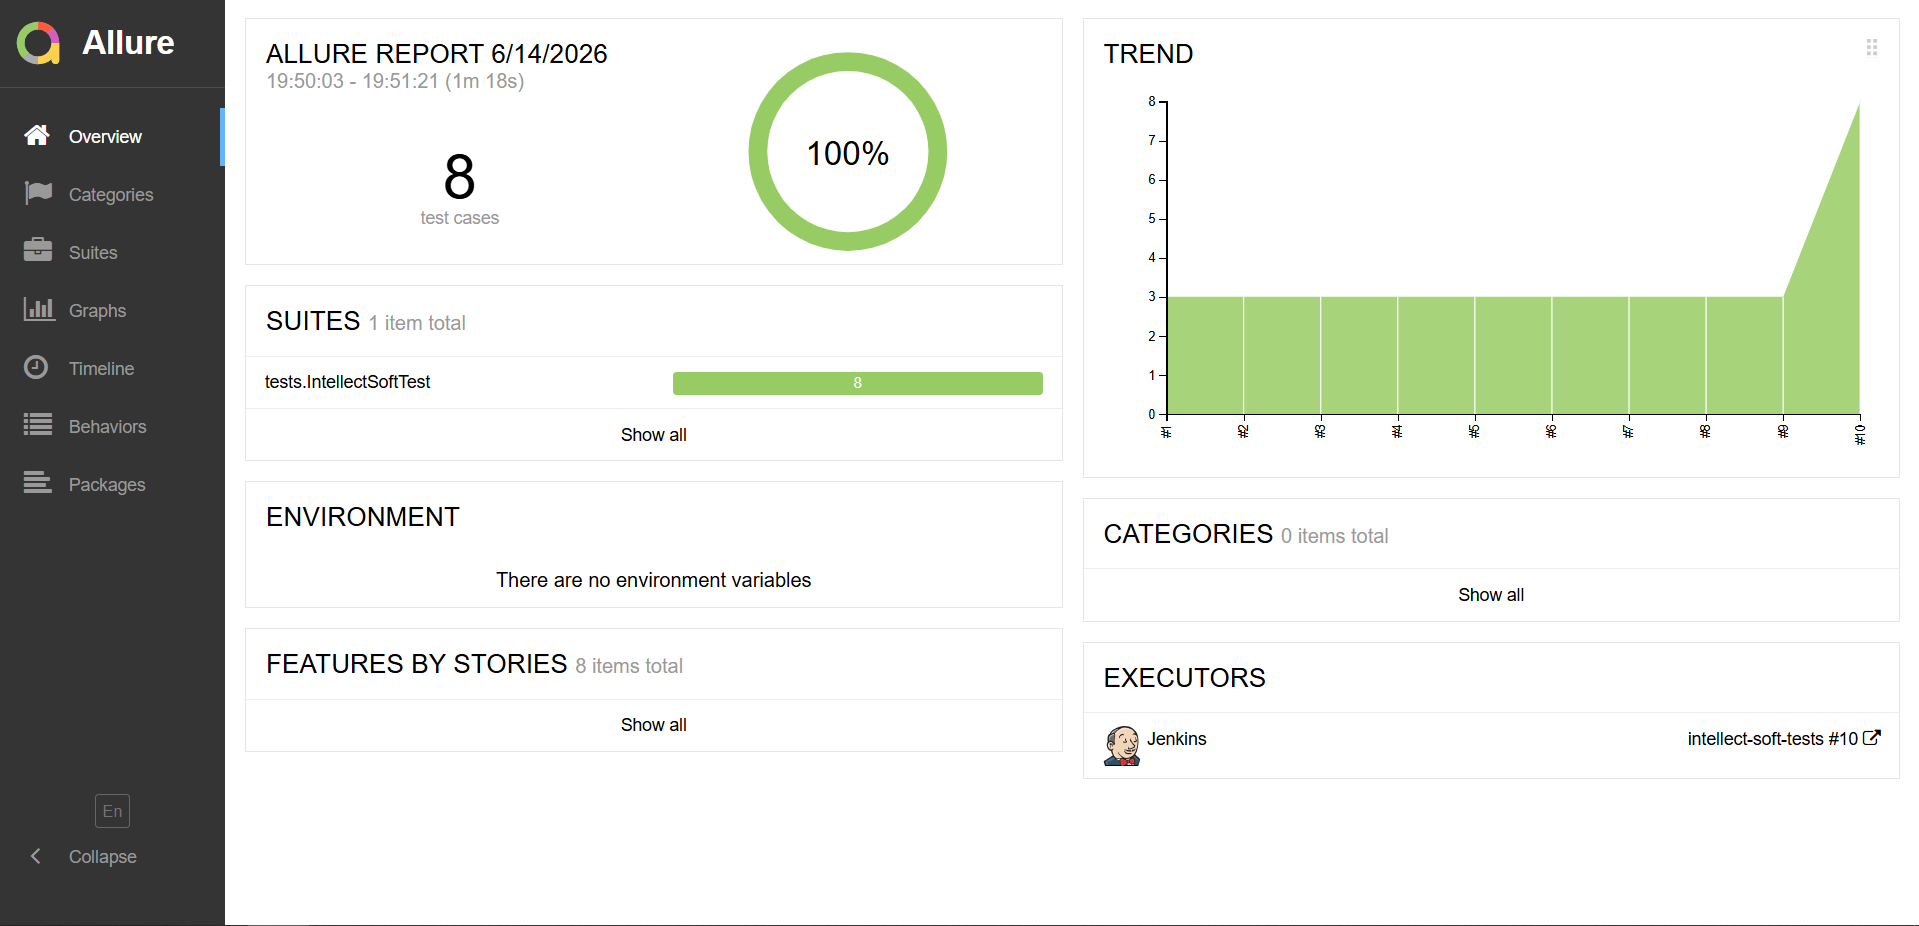
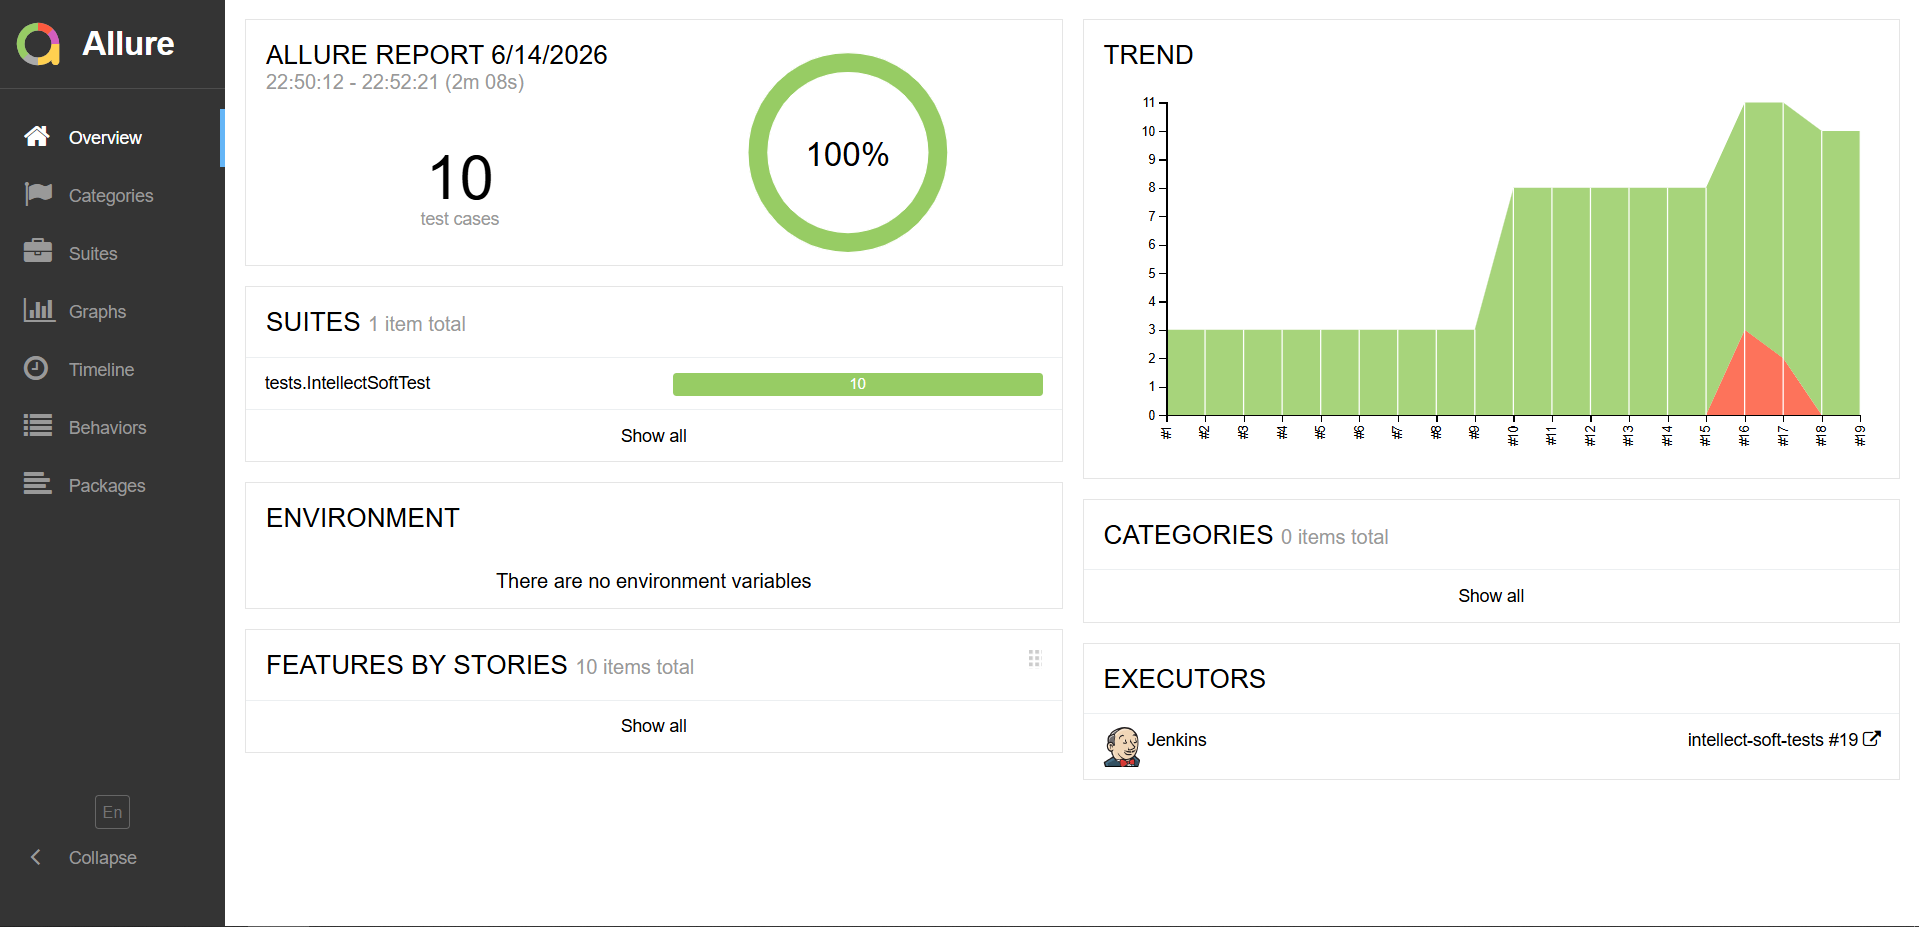
update README

diff --git a/README.md b/README.md
@@ -86,7 +86,6 @@
 
 <p align="center">
 <img title="Allure TestOps Dashboard" src="media/screens/testops.png">
-<img src="media/screens/testops2.png">
 </p>
 
 ## <img width="4%" style="vertical-align:middle" title="Telegram" src="media/logo/telegram.svg"> Уведомления в Telegram
@@ -96,11 +95,11 @@
 ```
 ✅ IntellectSoft Tests
 📊 Статистика:
-🟢 Пройдено: 8
+🟢 Пройдено: 10
 🔴 Упало: 0
 🟡 Пропущено: 0
-📋 Всего: 8
-⏱ Время: 78 сек
+📋 Всего: 10
+⏱ Время: 128 сек
 🔗 Отчёт
 ```
 